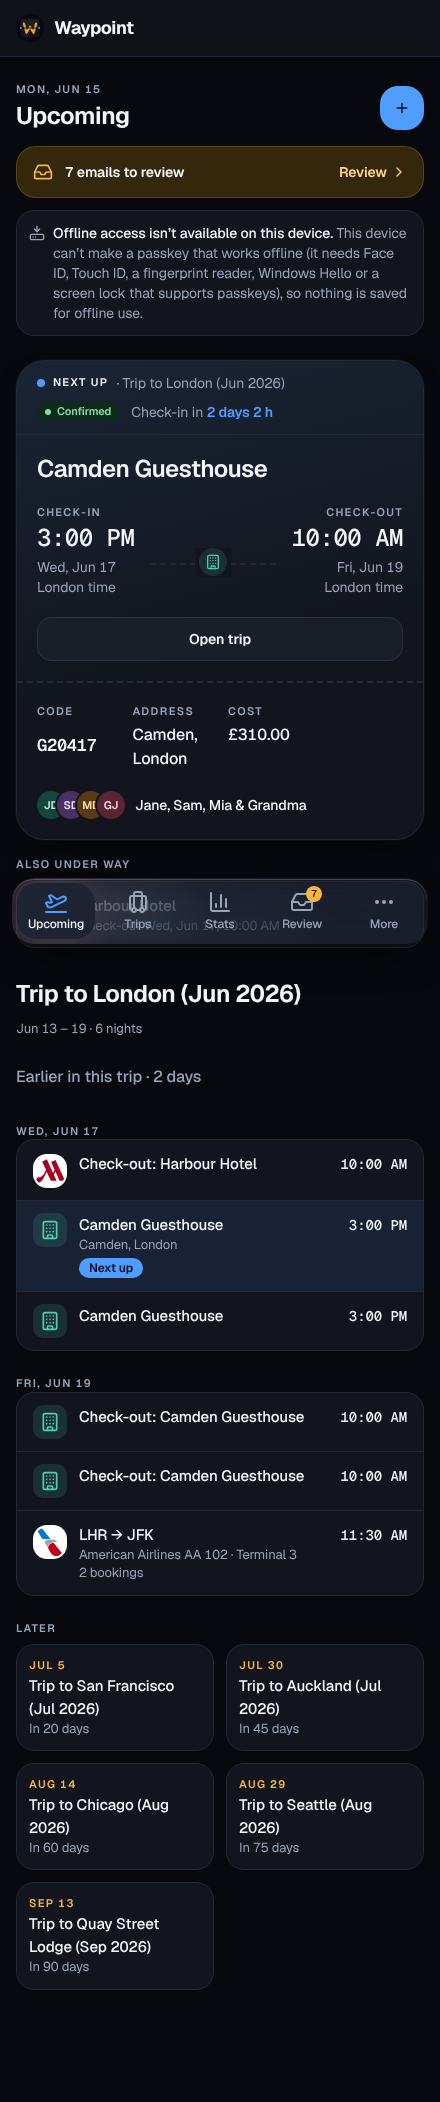
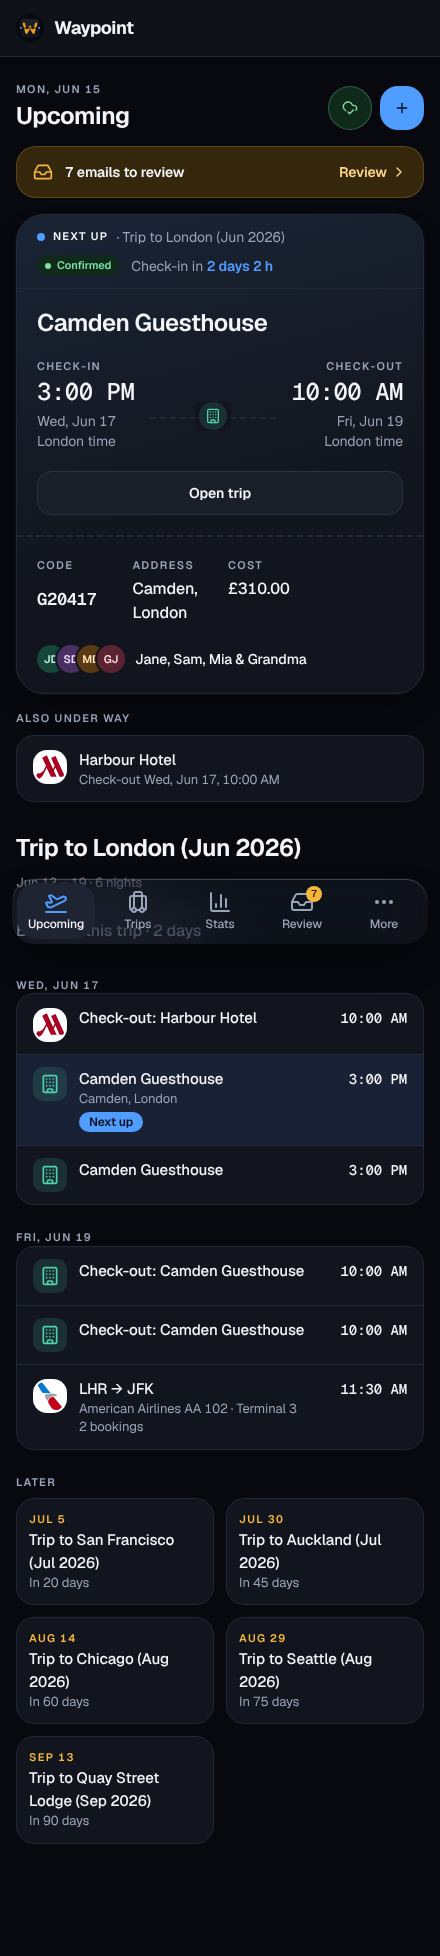
verify: write a first-screen image per page and set up offline access before each visit
Besides the full-page image, make verify now writes <page>-<width>-hero.png, the viewport only, for the README and the docs to embed, and the fleet check allows it. Before visiting a page it sets up offline access with a virtual passkey on localhost, the way the authenticator flow step does, so the page images show the app with offline access working instead of the notice that this device can't make a passkey. Each page is then loaded fresh, so the Trips pane and the Upcoming side column have loaded when the images are taken.

Claude-Session: https://claude.ai/code/session_01GGRu4giYCPoaSRp88Gr9uL

Changed region(s): [[0.0295, 0.0, 0.975, 0.9356], [0.7682, 0.499, 0.975, 0.7485], [0.0295, 0.343, 0.0591, 0.3742]]

diff --git a/tools/fleet_checks.py b/tools/fleet_checks.py
@@ -225,10 +225,10 @@ def added_images(base: str) -> list[str]:
 
 
 def check_images(paths: list[str], pages: list[str]) -> list[str]:
-    made = {f"{SCREENSHOTS}{page}-{width}.png" for page in pages for width in VERIFY_WIDTHS}
+    made = {f"{SCREENSHOTS}{page}-{width}{kind}.png" for page in pages for width in VERIFY_WIDTHS for kind in ("", "-hero")}
     return [f"{path}: the only images a change commits are the page images make verify writes to {SCREENSHOTS} "
-            "(one <page>-phone.png or <page>-desktop.png per page in frontend/verify/verify.mjs; they are the visual regression "
-            "baselines); show a before and after through those images' diff, not a hand-made file"
+            "(<page>-phone.png, <page>-desktop.png and their -hero first screens, per page in frontend/verify/verify.mjs; they are "
+            "the visual regression baselines); show a before and after through those images' diff, not a hand-made file"
             for path in paths if not (path in made or path in IMAGE_FILES or path.startswith(IMAGE_HOMES))]
 
 

diff --git a/tests/test_fleet_checks.py b/tests/test_fleet_checks.py
@@ -304,6 +304,11 @@ class Images(unittest.TestCase):
     def test_a_page_image_make_verify_writes_passes(self):
         self.assertEqual(self.problems("docs/src/assets/screenshots/trips-phone.png", "docs/src/assets/screenshots/oauth-approve-desktop.png"), [])
 
+    def test_a_page_s_first_screen_image_passes(self):
+        self.assertEqual(self.problems("docs/src/assets/screenshots/trips-phone-hero.png", "docs/src/assets/screenshots/upcoming-desktop-hero.png"), [])
+        self.assertEqual(len(self.problems("docs/src/assets/screenshots/trips-hero.png")), 1)
+        self.assertEqual(len(self.problems("docs/src/assets/screenshots/nope-phone-hero.png")), 1)
+
     def test_a_file_in_the_screenshots_folder_make_verify_would_not_write_fails(self):
         self.assertEqual(len(self.problems("docs/src/assets/screenshots/before-after.png")), 1)
         self.assertEqual(len(self.problems("docs/src/assets/screenshots/trips-tablet.png")), 1)

diff --git a/AGENTS.md b/AGENTS.md
@@ -28,7 +28,7 @@ Python goes through Poetry (Python 3.14).
 - `make test-parallel`: the same tests across 4 processes, as CI runs them (`make check` uses it), with coverage and its floor (`tools/coverage_floor.py`: 85% overall, 90% for each module in `waypoint/domain/`, `waypoint/providers/` and `waypoint/server/api/`); `make test-pg` runs them against `$DATABASE_URL` (Postgres).
 - `make frontend-check`: type-check, lint, Vitest (with the coverage floor in `frontend/vite.config.ts`) and build for `frontend/`.
 - `make fix`: apply ruff's safe fixes; review the diff afterward.
-- `make verify`: runs the real app on demo data in a browser at phone and desktop widths, under `libfaketime` with the clock frozen on a fixed date (`waypoint/verify.py`; Linux only: `sudo apt-get install libfaketime`), so an image changes only when the UI or its data does. It writes full-page images at phone and desktop only (`<page>-<width>.png`, no `-top` shots) to `docs/src/assets/screenshots/`, which is committed, and the report to `artifacts/verify/` (ignored). `PAGES="upcoming settings"` limits the pages, a run of every page first empties the images folder, and it runs on `VERIFY_JOBS` servers at once (default the CPU count, at most 4; `1` is serial; flows must not depend on each other's data). UI PRs commit the images it changed: see "Git and PRs" (demo data only).
+- `make verify`: runs the real app on demo data in a browser at phone and desktop widths, under `libfaketime` with the clock frozen on a fixed date (`waypoint/verify.py`; Linux only: `sudo apt-get install libfaketime`), so an image changes only when the UI or its data does. It writes, for each page at phone and desktop, a full-page image (`<page>-<width>.png`) and a first-screen image (`<page>-<width>-hero.png`, the one the README and the docs embed) to `docs/src/assets/screenshots/`, which is committed, and the report to `artifacts/verify/` (ignored). Before each page it sets up offline access in the browser with a virtual passkey, so the images show the app with offline access working. `PAGES="upcoming settings"` limits the pages, a run of every page first empties the images folder, and it runs on `VERIFY_JOBS` servers at once (default the CPU count, at most 4; `1` is serial; flows must not depend on each other's data). UI PRs commit the images it changed: see "Git and PRs" (demo data only).
 - `make fleet-checks`: the checks that replaced instructions (`tools/fleet_checks.py`, part of `make check`): one Alembic head, a test in `tests/test_migrations.py` for each migration, the workflows' conventions, the `Co-Authored-By` trailer on your commits since `origin/main`, no test removed or skipped on your branch without a `Removes-Test:` or `Skips-Test:` trailer saying why, and no image added or changed outside the places images belong (below).
 - `make feature-map`: regenerate the feature map; `make feature-map-check` checks it is current and every route has a test (part of `make check`).
 - `make api-contract`: regenerate the API contract (`docs/openapi.json`, `frontend/src/lib/api-types.ts`); `make api-contract-check` checks it is current (part of `make check`).
@@ -95,7 +95,7 @@ Review findings on agents' pull requests fall into the same few kinds. Check you
 - Work on the branch you were given; don't push to `main`.
 - Keep commits focused, with a clear message. An agent's commit ends with a `Co-Authored-By: Claude <Model> <version> <noreply@anthropic.com>` trailer naming the model that wrote it (checked on every pull request).
 - Before pushing to a PR, run `make check`.
-- A UI PR commits the images `make verify` changed in `docs/src/assets/screenshots/`, so a reviewer sees each page as before and after in the diff. The only images a change commits are the ones `make verify` writes there, which are the visual regression baselines: show a before and after through those images' diff, never a hand-made comparison file (`fleet-checks` fails a raster image that is not a `<page>-phone.png` or `<page>-desktop.png` in `docs/src/assets/screenshots/`, or outside the logo catalogue, `waypoint/static/` and `docs/public/`). Only commit images of `make verify`'s made-up demo data: the repository is public, so nothing from a real instance. Skip it for a PR with no UI change.
+- A UI PR commits the images `make verify` changed in `docs/src/assets/screenshots/`, so a reviewer sees each page as before and after in the diff. The only images a change commits are the ones `make verify` writes there, which are the visual regression baselines: show a before and after through those images' diff, never a hand-made comparison file (`fleet-checks` fails a raster image that is not a `<page>-phone.png`, `<page>-desktop.png` or their `-hero` variant in `docs/src/assets/screenshots/`, or outside the logo catalogue, `waypoint/static/` and `docs/public/`). Only commit images of `make verify`'s made-up demo data: the repository is public, so nothing from a real instance. Skip it for a PR with no UI change.
 - Open a PR only when asked, and summarize what changed and why. Keep the description short and professional: a few bullets on the change and how it was tested, not an essay. Don't say who asked for it or reported it.
 - A PR's title decides the next version when it's merged: `feat: …` releases a minor version, `fix: …` or anything else a patch, and `feat!: …` (or a `BREAKING CHANGE:` line) a major one, for a change that breaks an existing setup.
 - A PR is ready when its "Merge gate" check passes: every check green (`.github/scripts/merge-gate.sh`). Dependabot's updates merge themselves through it. The independent "Agent review" workflow is disabled (commented out in `.github/workflows/agent-review.yml`); Codex reviews pull requests instead (`chatgpt-codex-connector[bot]`, which comments on the PR, usually within a few minutes of opening it and again after each push). After opening a PR, watch it for Codex's comments: fix a P0 or P1 finding (or a P2 that is correct) and push, reply on its thread with what changed or why not, and leave nits alone unless the push already touches those files.
